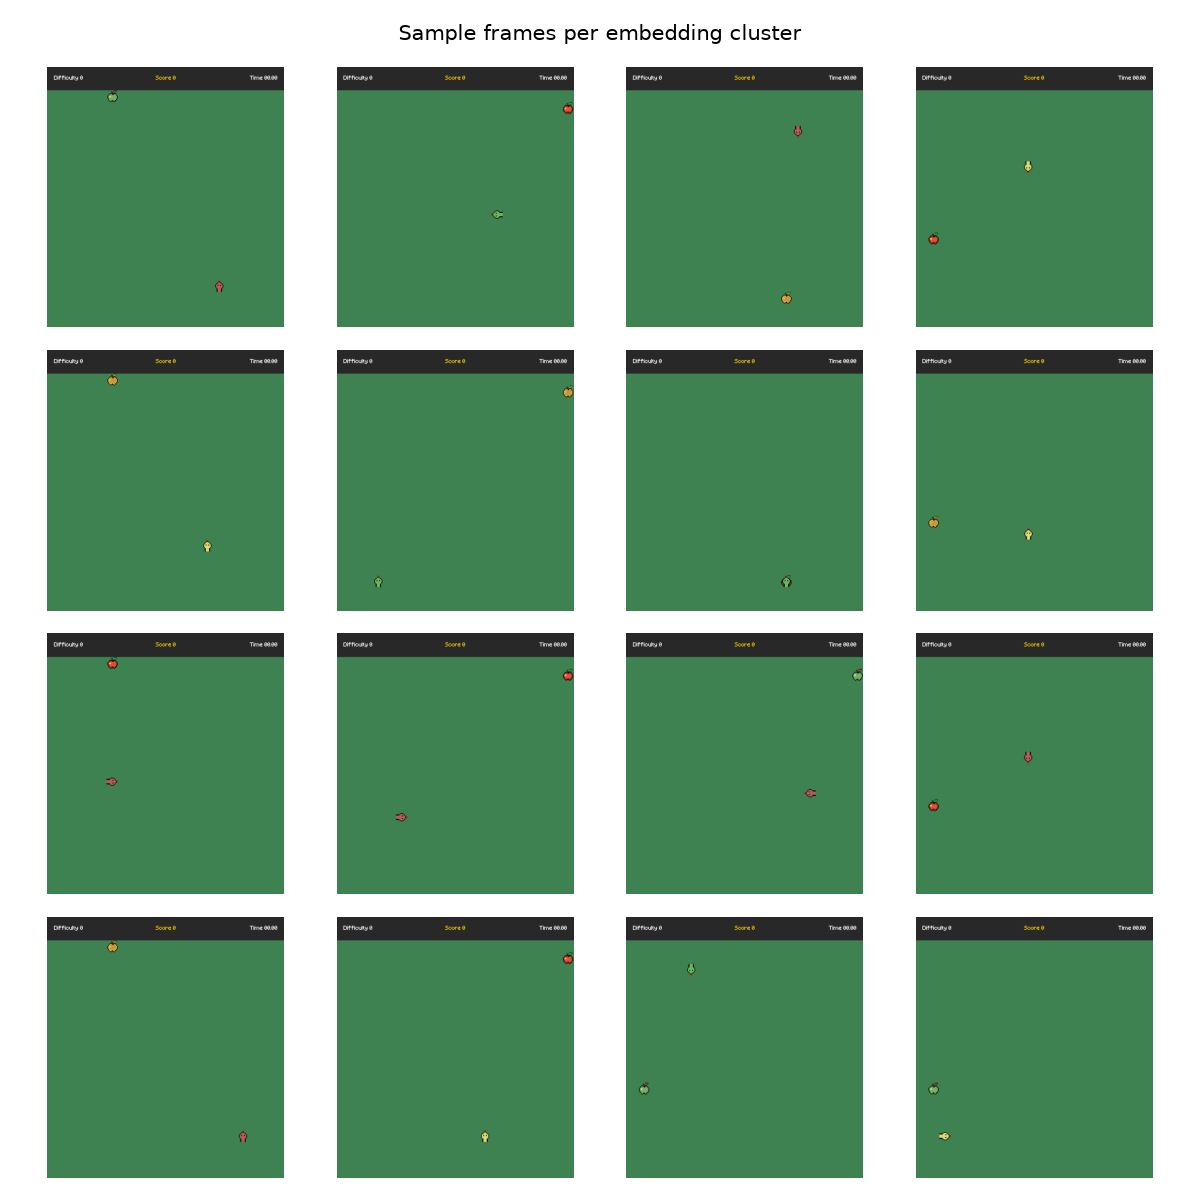
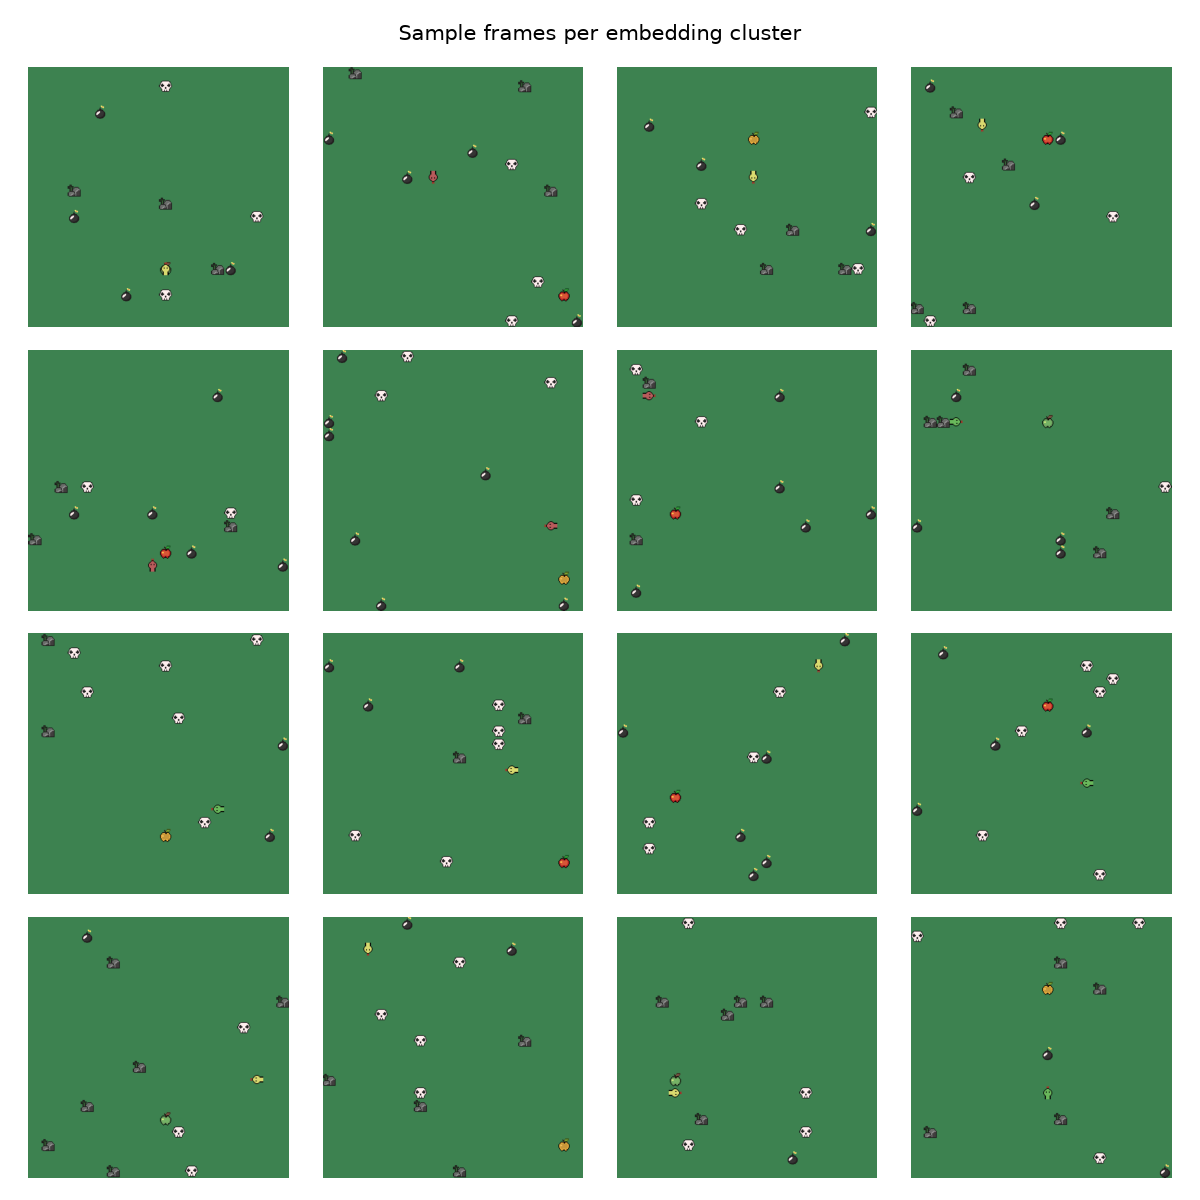
Fixes to analysis scripts and first graphs

diff --git a/src/validation/inspect.py b/src/validation/inspect.py
@@ -71,6 +71,9 @@ if __name__ == '__main__':
     enc_patch_size = config.get("enc_patch_size", 6)
     enc_patch_in_channels = config.get("enc_path_in_channels", 3)
 
+    #Projector
+    proj_hidden_dim = config.get("proj_hidden_dim")
+
     # Predictor parameters
     pred_hidden_dim = config.get("pred_hidden_dim", 64)
     pred_cond_dim = config.get("pred_cond_dim", 1)
@@ -97,6 +100,7 @@ if __name__ == '__main__':
                             mlp_dim=pred_mlp_dim,
                             use_adaLN=use_adaLN,
                             dropout=dropout).to(device=device),
+        projector=Projector(embed_dim=embed_dim, hidden_dim=proj_hidden_dim),
         policy=eval(config["pol_type"])(**config),
         action_dim=action_dim,
         embed_dim=embed_dim,

diff --git a/src/validation/multi_attention.py b/src/validation/multi_attention.py
@@ -181,4 +181,7 @@ if __name__ == '__main__':
         axes[r, c].axis("off")
 
     plt.tight_layout()
+
+    plt.savefig("imgs/multihead_attention_heatmaps.png", dpi=150)
+
     plt.show()

diff --git a/src/validation/attention.py b/src/validation/attention.py
@@ -159,4 +159,6 @@ if __name__ == '__main__':
     ax[1].set_title("CLS Attention")
     ax[1].axis("off")
 
+    plt.savefig("imgs/attention_heatmap.png", dpi=150)
+
     plt.show()